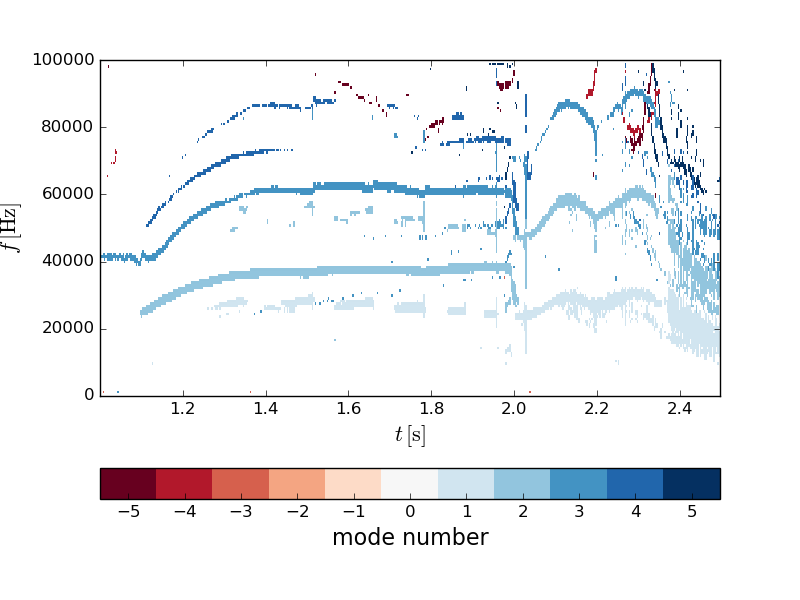
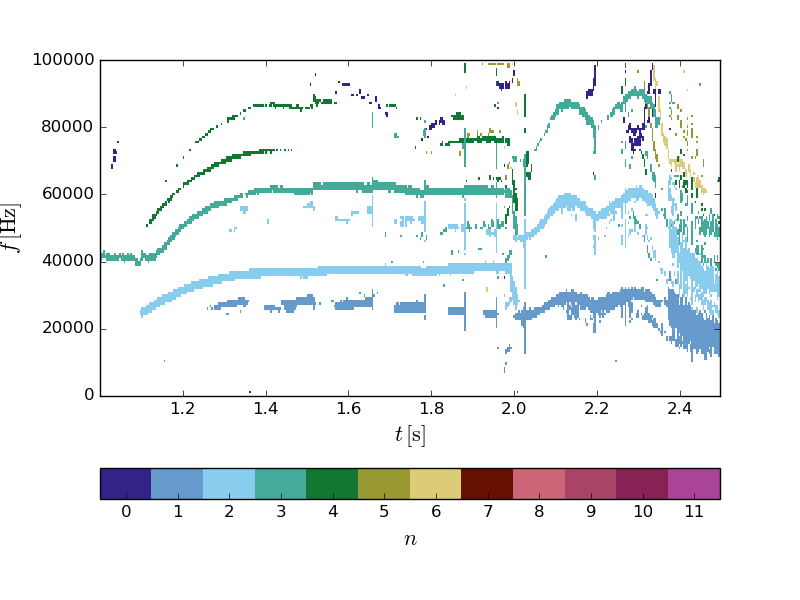
Show use of distinct, color-blind proof cmap

diff --git a/README.md b/README.md
@@ -119,9 +119,14 @@ A = rd.array.Array(
     torsigs.x, torsigs.locations, Fs=torsigs.Fs, t0=torsigs.t0,
     Tens=Tens, Nreal_per_ens=Nreal_per_ens)
 
+cmap_mag = magnetics.colormap.positive_mode_numbers()[0]
+
 A.plotModeNumber(
     xlabel='$t \, [\mathrm{s}]$',
-    ylabel='$f \, [\mathrm{Hz}]$')
+    ylabel='$f \, [\mathrm{Hz}]$',
+    cblabel='$n$',
+    mode_number_lim=[0, 11],
+    cmap=cmap_mag)
 
 ```
 
